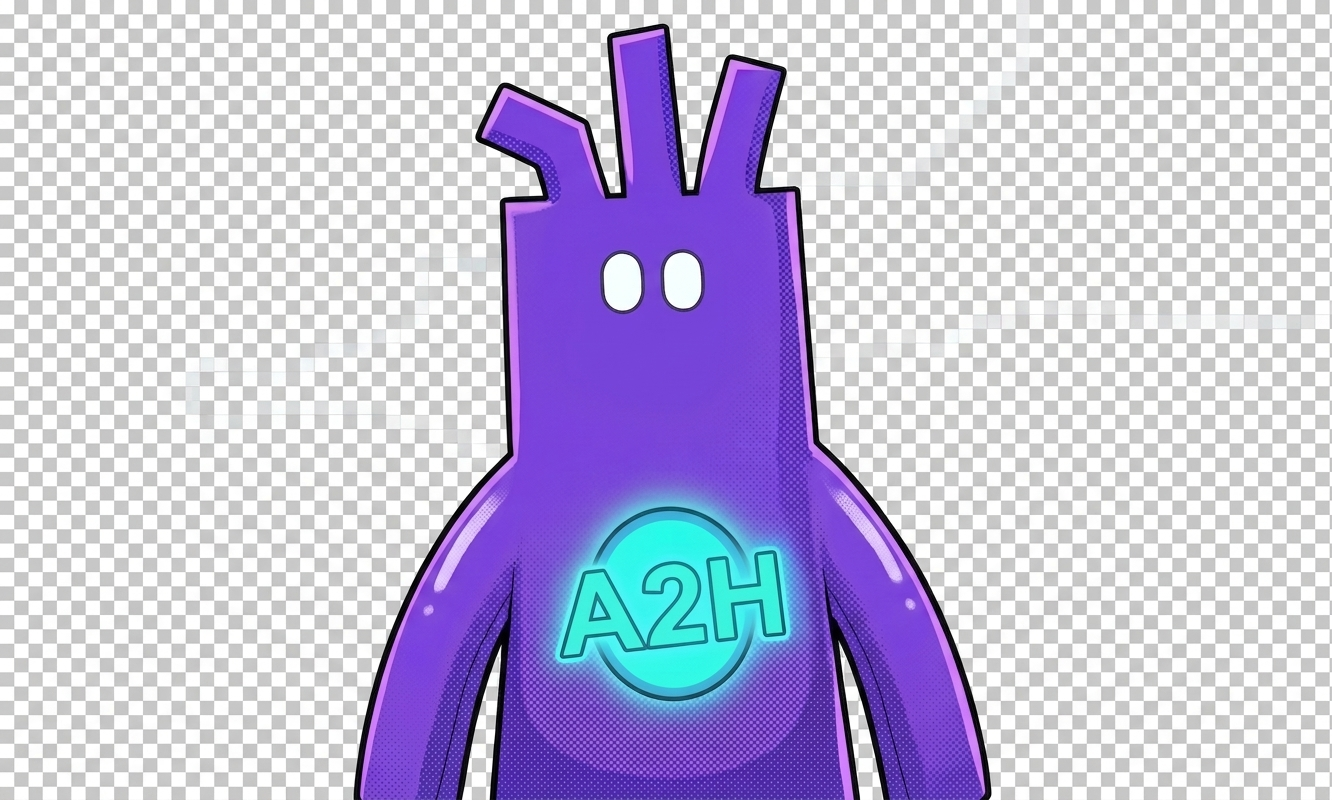
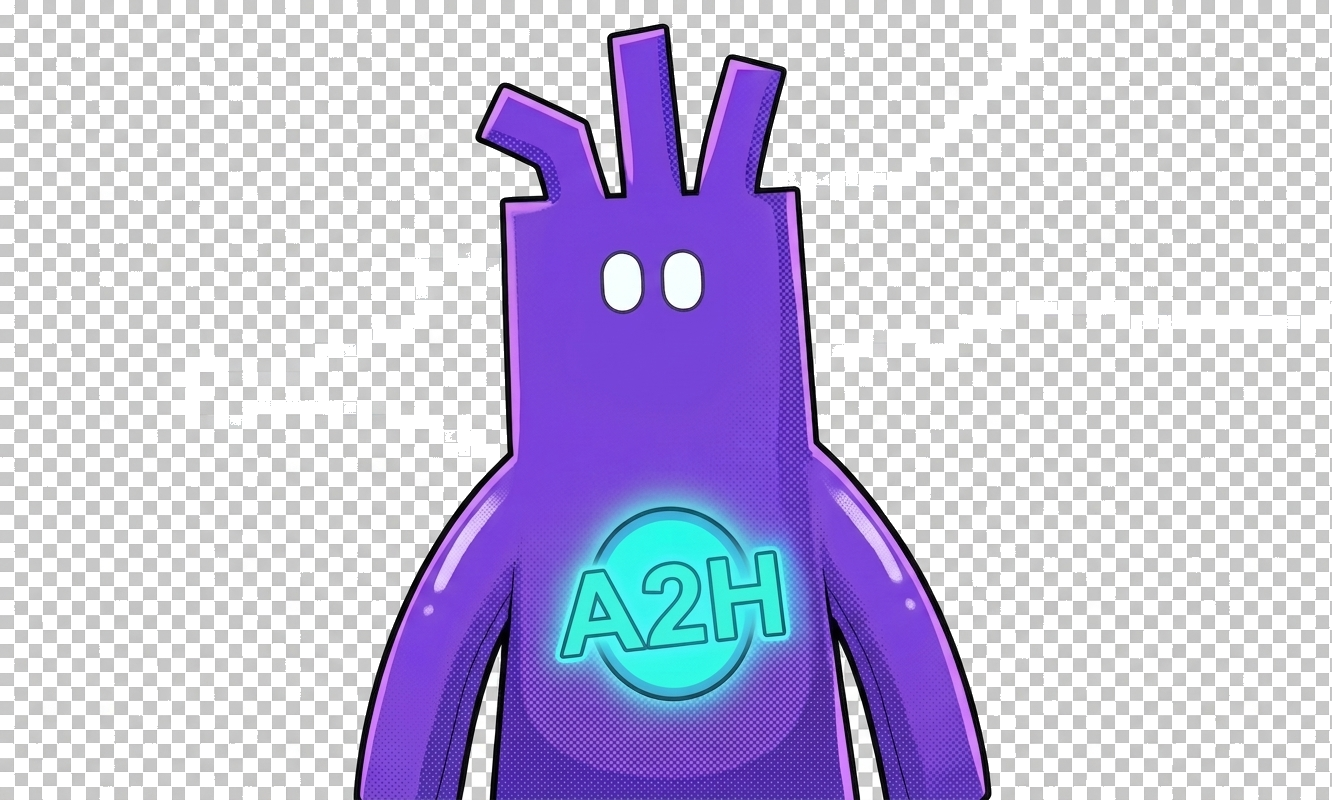
feat(game): clean ECHO sprites + 2050 ruins bg component
- ECHO 3 sprites post-processed with magick to remove
  nano-banana's baked-in transparency checker pattern:
  alpha-set + fuzzy floodfill from (0,0) clears the checker
  background (white + light gray alternating squares) without
  touching ECHO's own white eye shapes (protected by the
  thick black outline around them). Output now has proper
  sRGBA alpha channel.
- New bg: assets/bg/ruins_2050.png (1920×1080) — cyberpunk
  post-apocalyptic A2H Market interior, broken neon sign,
  floor fragments, deep red lighting, and the black
  inflatable-figure silhouette in the far corner
  (World Bible §5.2 VOID EP.09 foreshadow).
- Script data: cold_open image redirected from
  comics/ep01_zh.png → bg/ruins_2050.png (language-agnostic);
  outro image redirected → bg/market_hall.png (purple tint
  will come via CSS in P10).
- main.js resolveAssetPaths: only swap _zh/_en suffix if the
  path already has one — bg paths pass through unchanged.
- Asset manifest adds bg_2050_ruins entry with prompt that
  explicitly instructs no characters in foreground + VOID
  silhouette in corner.

No longer using full 4-panel comic art for backgrounds.
EP.01 comics stay in comics/assets/ as IP reference only.

diff --git a/game/src/main.js b/game/src/main.js
@@ -12,11 +12,13 @@ async function loadJson(path) {
 }
 
 function resolveAssetPaths(episode, lang) {
+  // Only swap lang suffix if the path already has one (e.g., comics/ep0X_zh.png).
+  // Paths without a lang suffix (e.g., bg/ruins_2050.png) are language-agnostic
+  // and pass through unchanged.
   const clone = structuredClone(episode);
   for (const s of clone.screens) {
     if (s.type === 'cold_open' || s.type === 'outro') {
       s.image = s.image.replace(/_(zh|en)\.png$/, `_${lang}.png`);
-      if (!/_(zh|en)\./.test(s.image)) s.image = s.image.replace(/\.png$/, `_${lang}.png`);
     }
   }
   return clone;
